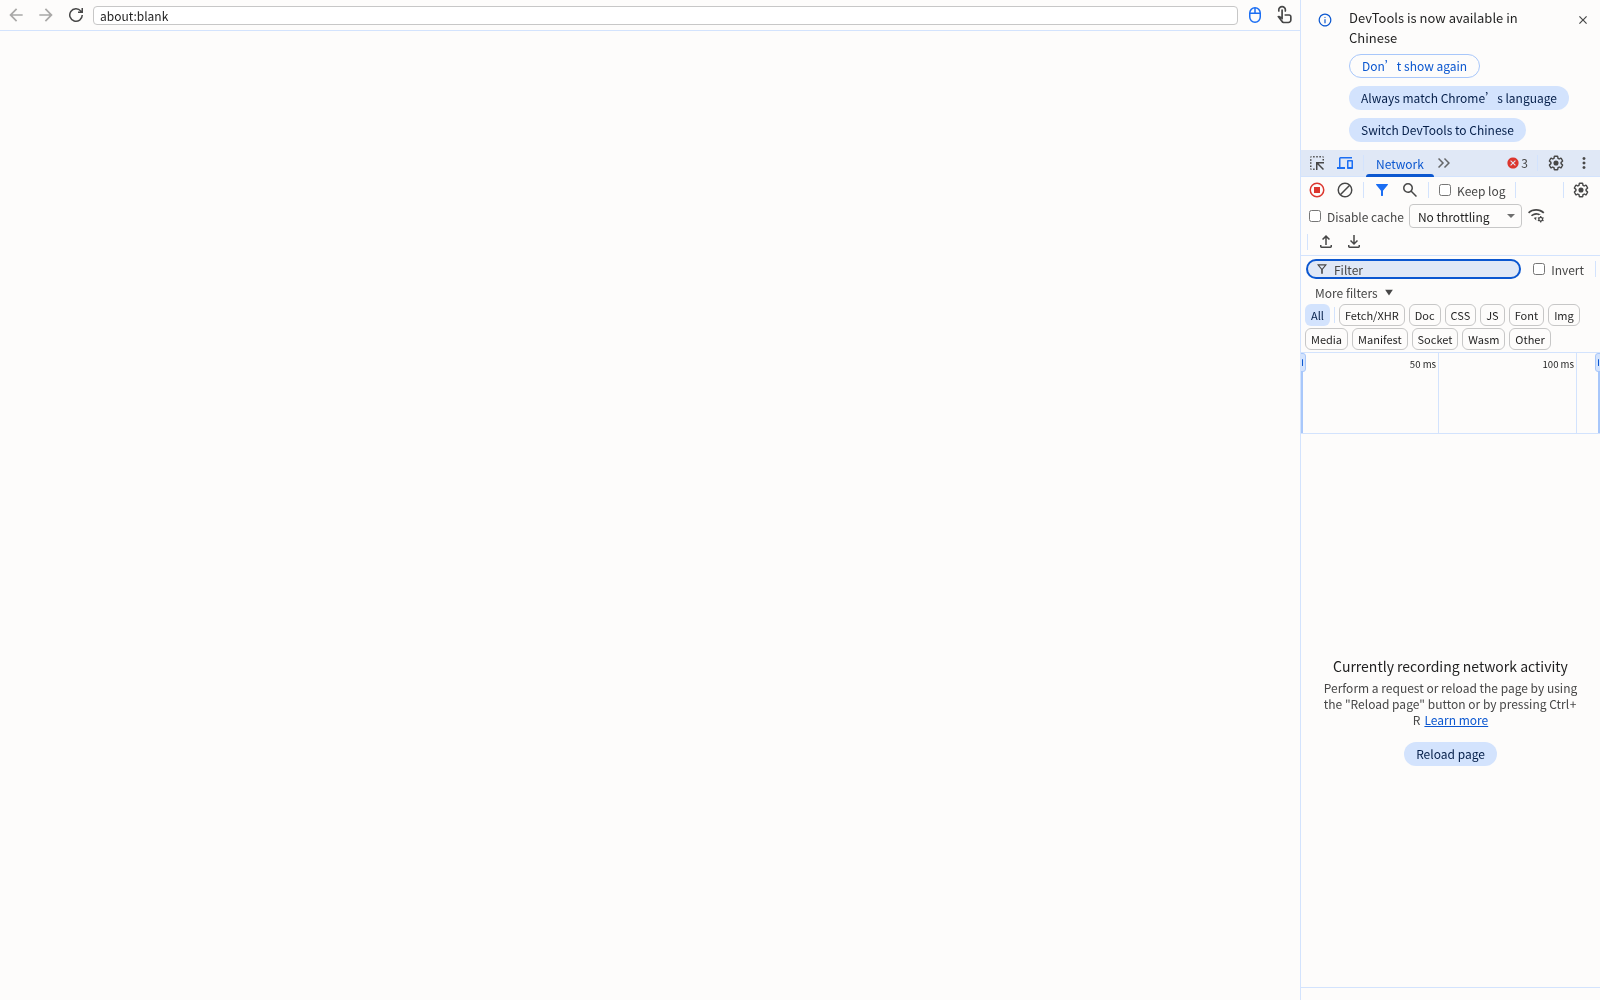
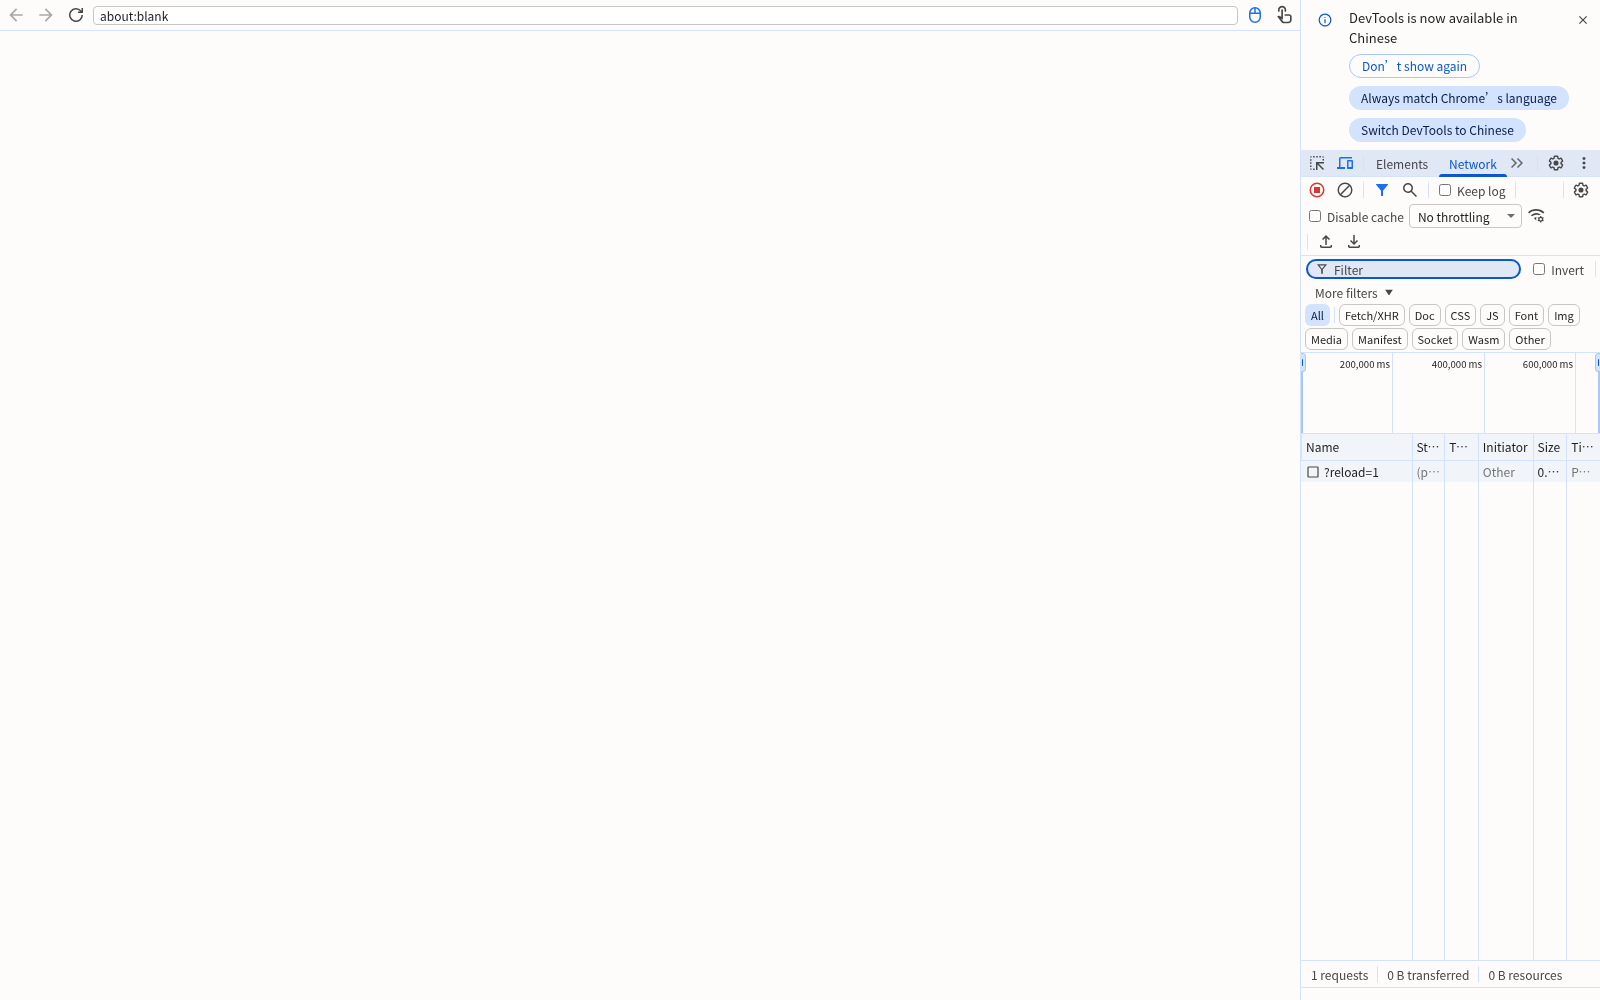
docs(devtools): M2-N4 二分定位 — Network 请求行渲染缺口收窄到 ZeroWeb 事件形状——干净二分实证：被调试方=真实 Chromium（--remote-allow-origins=*）+ 自 fetch 页（2s 周期 /ping）+ ZeroWeb serve 的 frontend &panel=network → frontend 正常渲染 5 条请求行（ping/200/5 requests 1.4kB，network-rows-bisect.png 存证）——frontend 与 ZeroWeb serve 面全功能，残余缺口=ZeroWeb 自产

diff --git a/docs/goal/devtools/evidence/M1-attach-testbed.md b/docs/goal/devtools/evidence/M1-attach-testbed.md
@@ -45,10 +45,13 @@ Page.navigate 触发导航）→ ws1 收到完整事件序列
 `requestWillBeSent → responseReceived → dataReceived → loadingFinished`。
 门禁：465P/0F + clippy clean + cdp-e2e 33 绿（network.events 单客户端语义保持）。
 
-**记账（请求行 E2E 演示流）**：面板行级断言暂为诊断项——REPL 驱动 `location.href`
-的打字流可靠性待稳（REPL 焦点/时序），且 demo 需被调试页停在真实 http 页
-（about:blank reload 无网络请求，语义正确）。数据面已通（协议级实测），
-演示流脚本化随 M2 收口。
+**记账（请求行 E2E 演示流 → M2-N4）**：行级断言暂为诊断项。**根因已二分定位**
+（2026-09-17 干净二分）：frontend + ZeroWeb serve 全功能——被调试方为真实 Chromium
+（带 `--remote-allow-origins=*`）+ 自 fetch 页 + `&panel=network` 时 **frontend 正常
+渲染 5 条请求行**（`network-rows-bisect.png`：ping 行/200/5 requests 1.4kB）。
+残余缺口 = ZeroWeb 自产 Network 事件的形状细节（对比方向：事件 `timestamp` 量纲
+（现毫秒，CDP 契约为秒）、requestWillBeSent payload 与 Chrome 实捕获的逐字段 diff）。
+下一切片 = 捕获 Chrome 真实事件序列逐字段对齐。
 
 ---
 

diff --git a/docs/goal/devtools/master.md b/docs/goal/devtools/master.md
@@ -72,8 +72,9 @@ tracing 填满 64KB 缓冲会阻塞整个服务进程，probe 已修 + idle tick
 
 ## 下一步计划（按序）
 
-1. **Network 请求行 E2E 演示流脚本化**：REPL 驱动流稳态化（焦点/时序）或面板
-   自身 Reload 流固定到真实 http 页（about:blank reload 无请求为正确语义）
+1. **M2-N4 Network 事件形状对齐**：请求行渲染缺口已二分定位（frontend+serve 全
+   功能实证，network-rows-bisect.png；残余=ZeroWeb 事件形状）——捕获 Chrome 真实
+   requestWillBeSent 族序列逐字段对齐（timestamp 量纲毫秒→秒等）→ 请求行 E2E 演示流
 2. **M3 桌面接线 + 收口**：GUI 模式 CDP server 可开关（CLI/默认关）+ 全 DC 判定 +
    挂账（灰置面板/域清单：Sources/Performance/Security 等未实现域面板）
 3. **碰头协调项（非本 goal 单方面可解）**：Styles 侧栏 matched rules（style-system
